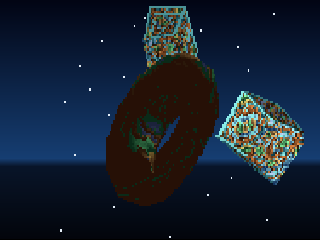
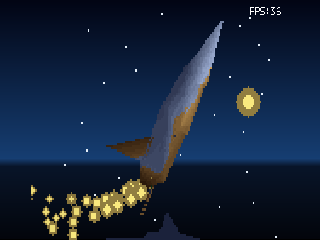
docs: update README, screenshots and release notes for v1.2

diff --git a/README.md b/README.md
@@ -1,31 +1,33 @@
 ![AURA-3D AGA Engine Logo](docs/logo_aura3d.png)
 
-# AURA-3D AGA Engine v1.1 (Amiga 1200 / THEA1200) [EN / PL]
+# AURA-3D AGA Engine v1.2 (Amiga 1200 / THEA1200) [EN / PL]
 
 **Credits / Autorzy:** malek69 & **Gemini AI** *(Vibe Coding Edition, 2026 — Bare-Metal M68020+ 3D Engine & Python Toolchain)*
 
-## Live Hardware / FS-UAE Showcase (v1.1)
+## Live Hardware / FS-UAE Showcase (v1.2)
 
 | 3D Vertex Morphing | Space Shuttle 3D + Particle Trail | 16-bit Z-Buffer Torus + Copper Sky |
 | :---: | :---: | :---: |
-| ![3D Morph](docs/shot_morph.png?v=11) | ![Space Shuttle](docs/shot_shuttle.png?v=11) | ![Z-Buffer Torus](docs/shot_torus.png?v=11) |
+| ![3D Morph](docs/shot_morph.png?v=12) | ![Space Shuttle](docs/shot_shuttle.png?v=12) | ![Z-Buffer Torus](docs/shot_torus.png?v=12) |
 
-## Download Latest Release (v1.1) / Pobierz najnowszą wersję (v1.1)
+## Download Latest Release (v1.2) / Pobierz najnowszą wersję (v1.2)
 
 | Package / Paczka | Target Platform / Docelowy system | Launch / Uruchomienie |
 | :--- | :--- | :--- |
-| **[aura3d_demo_v1.1_AGA.lha](https://github.com/malek69/aura3d-aga-engine/releases/download/v1.1/aura3d_demo_v1.1_AGA.lha)** | **RetroArch (`PUAE` — Android / PC)**, **THEA1200 (Amiberry)**, **Amiga 1200** (8 MB Fast RAM) | **1-click:** Load Content directly on `.lha` (WHDLoad auto-boot). |
-| **[aura3d_demo_v1.1_AGA_FSUAE.zip](https://github.com/malek69/aura3d-aga-engine/releases/download/v1.1/aura3d_demo_v1.1_AGA_FSUAE.zip)** | **FS-UAE Launcher** (Linux / Windows / macOS) & **WinUAE** | **1-click:** Mount as Hard Drive (`DH0`) on A1200 (8 MB Fast RAM) and click **Start**. |
-| **[aura3d_demo_v1.1_AGA.adf](https://github.com/malek69/aura3d-aga-engine/releases/download/v1.1/aura3d_demo_v1.1_AGA.adf)** | Floppy Drive (`DF0:`) / Gotek / Amiga 1200 (8 MB Fast RAM) | Boot directly from floppy image (`S/startup-sequence`). |
-| **[aura3d-aga-engine-v1.1-src.zip](https://github.com/malek69/aura3d-aga-engine/releases/download/v1.1/aura3d-aga-engine-v1.1-src.zip)** | M68020+ Assembly & Python Developers | Complete engine source (`engine/`), demo scenes (`demo_v1/`), and `.obj` tools (`tools/`). |
+| **[aura3d_demo_v1.2_AGA.lha](https://github.com/malek69/aura3d-aga-engine/releases/download/v1.2/aura3d_demo_v1.2_AGA.lha)** | **RetroArch (`PUAE` — Android / PC)**, **THEA1200 (Amiberry)**, **Amiga 1200** (8 MB Fast RAM) | **1-click:** Load Content directly on `.lha` (WHDLoad auto-boot). |
+| **[aura3d_demo_v1.2_AGA_FSUAE.zip](https://github.com/malek69/aura3d-aga-engine/releases/download/v1.2/aura3d_demo_v1.2_AGA_FSUAE.zip)** | **FS-UAE Launcher** (Linux / Windows / macOS) & **WinUAE** | **1-click:** Mount as Hard Drive (`DH0`) on A1200 (8 MB Fast RAM) and click **Start**. |
+| **[aura3d_demo_v1.2_AGA.adf](https://github.com/malek69/aura3d-aga-engine/releases/download/v1.2/aura3d_demo_v1.2_AGA.adf)** | Floppy Drive (`DF0:`) / Gotek / Amiga 1200 (8 MB Fast RAM) | Boot directly from floppy image (`S/startup-sequence`). |
+| **[aura3d-aga-engine-v1.2-src.zip](https://github.com/malek69/aura3d-aga-engine/releases/download/v1.2/aura3d-aga-engine-v1.2-src.zip)** | M68020+ Assembly & Python Developers | Complete engine source (`engine/`), demo scenes (`demo_v1/`), and `.obj` tools (`tools/`). |
 
-## What's New in v1.1 / Nowości w wersji v1.1
+## What's New in v1.2 / Nowości w wersji v1.2
+- **Real-Time Native FPS HUD (`engine/hud_fps.i`):** Crisp 320×256 bitplane `FPS:XX` counter in the top-right corner (`H` key toggle).
+- **3D Planar Shadows (`engine/planar_shadow.i`):** Directional light ground-plane shadow projection with 16-bit Z-Buffer depth sorting (`C` key toggle) and refined satin chrome reflections.
 - **3D World-Space Particle Trail (`engine/particle_trail.i`):** Twin-nozzle exhaust emitter `(-9,0,-36)` & `(+9,0,-36)` on the Space Shuttle with turbulent thrust vectors and full 16-bit Z-Buffer depth sorting (`draw_z_orb_v2`).
 - **24-bit AGA Copper Sky & Horizon Gradient (`engine/copper_sky.i`):** Zero-CPU-cycle per-scanline 24-bit `COLOR00` gradient (`BPLCON3` LOCT 0/1) across 228 PAL display lines with 4 switchable atmospheric themes.
 - **Z-Fog / Depth Cueing (`engine/aura3d_v2.i`):** Per-vertex depth-based luminance attenuation (`zfog_start = 118`, `zfog_shift = 2`) integrated into the Gouraud + Environment Mapping pipeline.
 - **Real-Time Joystick (Port 2) & Keyboard Controls (`engine/input_ctrl.i`):** Live 3D object rotation, camera zoom, sky theme switching, and Z-Fog toggle via `JOY1DAT` (`$DFF00C`) and `CIA-A` (`$BFEC01` with hardware `$BFEE01` handshake).
 
-## Live Interactive Controls / Sterowanie na żywo (v1.1)
+## Live Interactive Controls / Sterowanie na żywo (v1.2)
 
 | Input / Klawisz lub Joystick | Action / Działanie |
 | :--- | :--- |
@@ -33,6 +35,8 @@
 | **W / S** or **Fire + Up/Down** | Zoom camera in / out (`user_zoom`) |
 | **1 – 4** | Switch 24-bit Copper sky theme (`Cosmic Horizon`, `Solaris Dusk`, `Emerald Nebula`, `Pure Black`) |
 | **F** | Toggle Z-Fog (Depth Cueing) ON / OFF |
+| **H** | Toggle real-time FPS HUD ON / OFF |
+| **C** | Toggle 3D Planar Shadows ON / OFF |
 | **Space / R** | Reset user camera rotation and zoom |
 | **LMB / ESC** | Exit cleanly to AmigaOS |
 

diff --git a/docs/ENGINE_v1.2.md b/docs/ENGINE_v1.2.md
@@ -1,0 +1,16 @@
+# AURA-3D AGA Engine v1.2
+
+Bare-metal 3D software engine for Commodore Amiga 1200 (M68020+ / AGA).
+
+## What is New in v1.2
+- Real-Time Native FPS HUD (engine/hud_fps.i): Crisp 320x256 bitplane counter (FPS:XX) in the top-right corner with key H toggle.
+- 3D Planar Shadows (engine/planar_shadow.i): Real-time directional light shadow projection onto the ground plane with 16-bit Z-Buffer depth sorting and key C toggle.
+- Satin Metallic Environment Map (demo_v1/chrome_tex.bin): Smooth steel, silver horizon, and warm sandstone reflections across all 3D meshes.
+- Full v1.1 Feature Set: Twin-nozzle 3D particle trail, 24-bit AGA Copper sky gradient (4 themes), Z-Fog depth cueing, and Joystick Port 2 + CIA-A keyboard controls.
+
+## Controls
+- Arrow Keys / Joystick Port 2: Rotate 3D objects
+- W / S or Fire + Up/Down: Zoom camera
+- 1 - 4: Switch 24-bit Copper sky theme
+- H: Toggle FPS HUD | C: Toggle 3D Shadows | F: Toggle Z-Fog
+- Space / R: Reset camera | LMB / ESC: Exit
